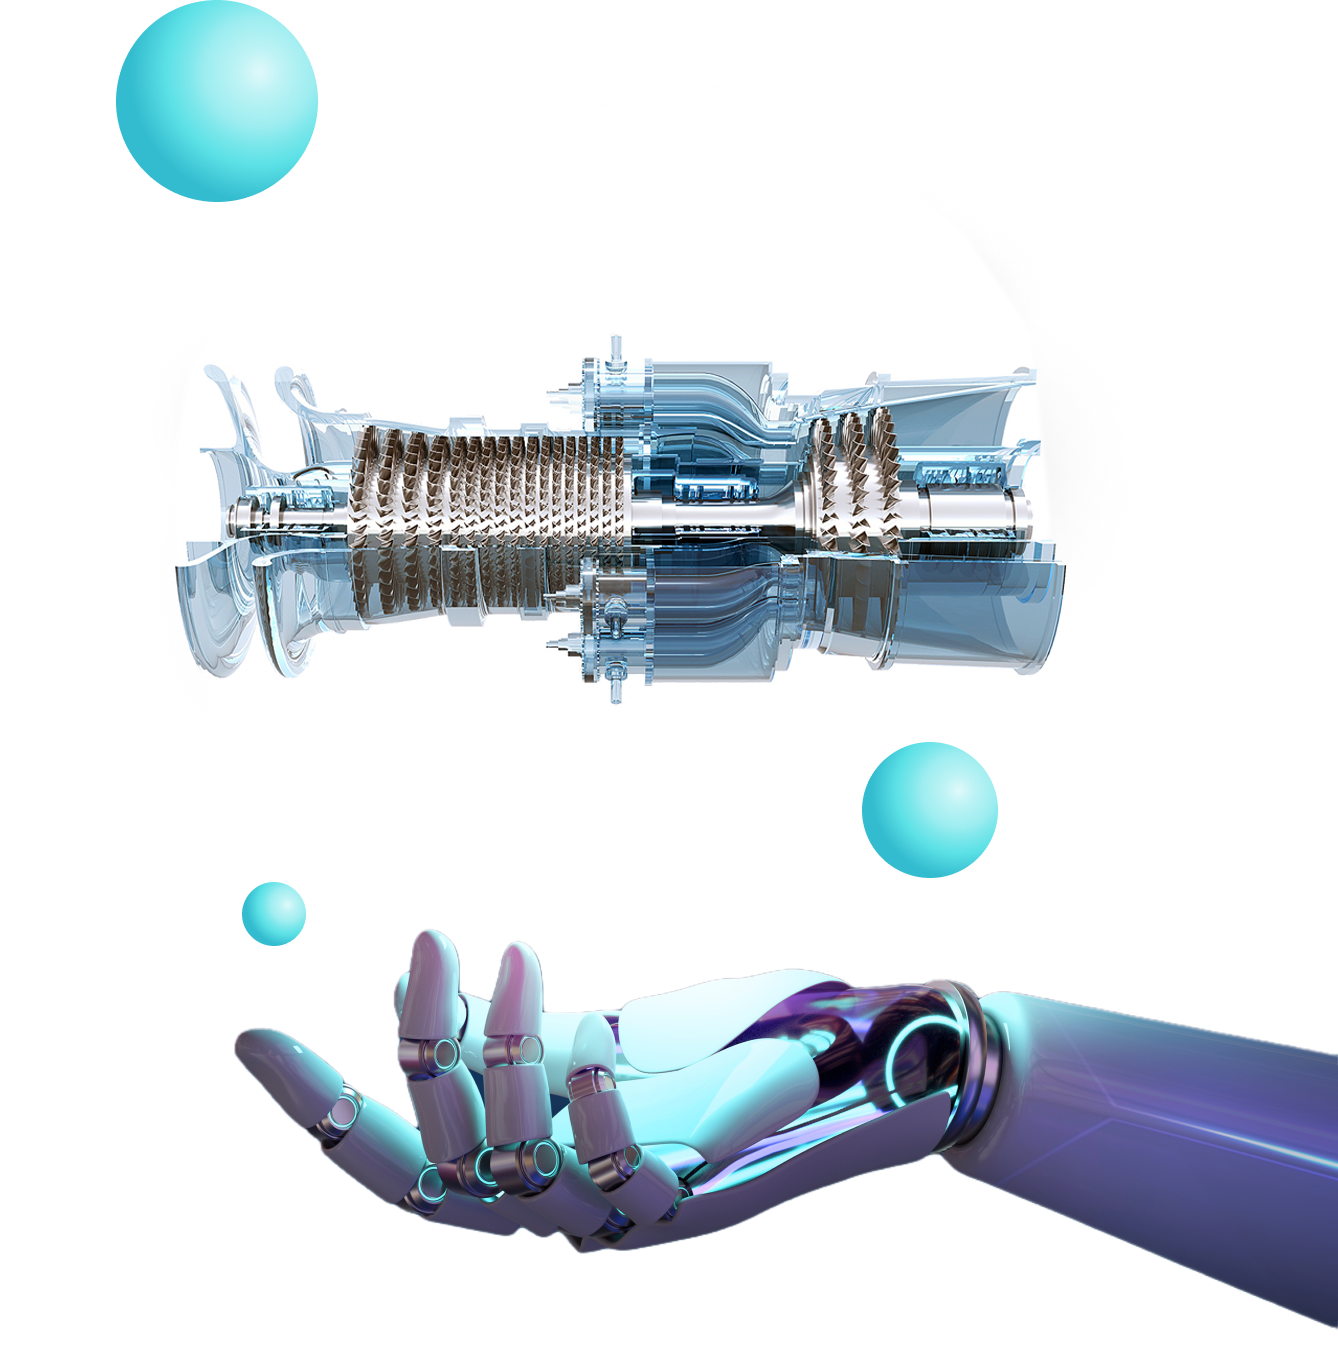
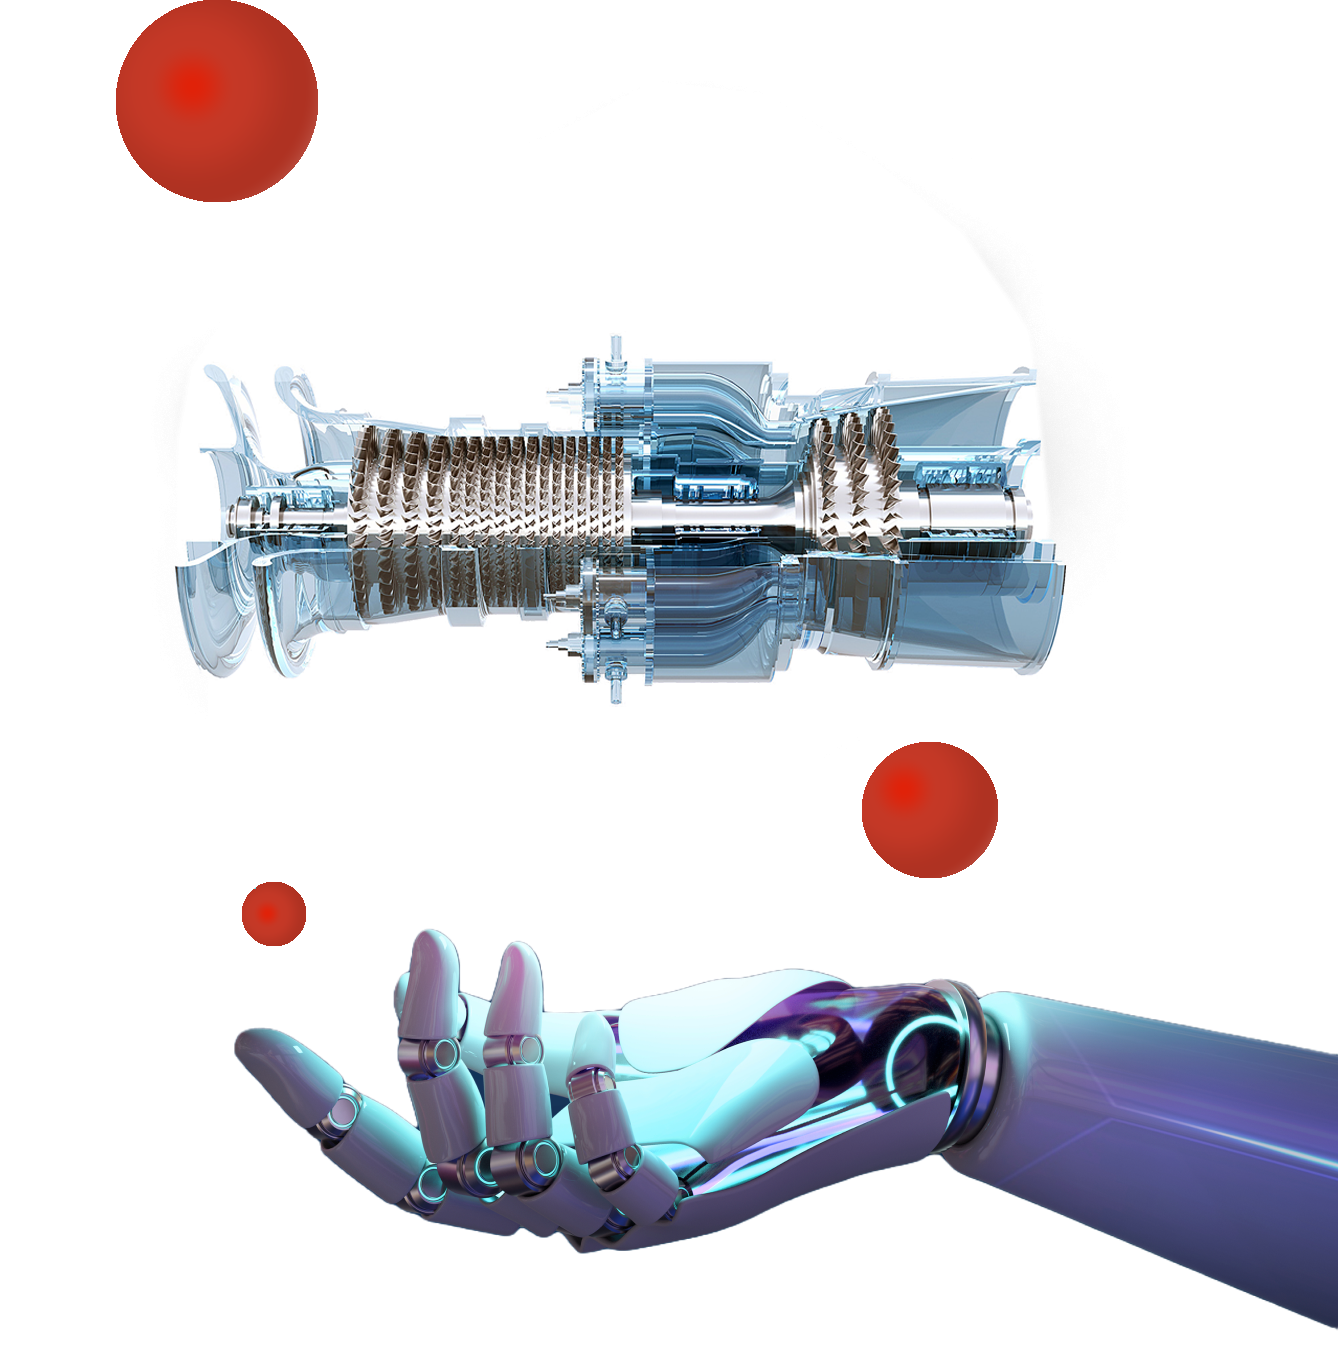
next change

Changed region(s): [[0.0613, 0.0, 0.2451, 0.1558], [0.6435, 0.5297, 0.7661, 0.6543], [0.1839, 0.6543, 0.2451, 0.7166]]

diff --git a/src/components/Testimonials.jsx b/src/components/Testimonials.jsx
@@ -1,6 +1,18 @@
-import { feedback } from "../constants";
+// import { feedback } from "../constants";
 import styles from '../style';
-import FeedbackCard from "./FeedbackCard";
+// import FeedbackCard from "./FeedbackCard";
+import file1 from "../Image/steam1.jpg";
+import file2 from "../Image/steam2.jpg";
+import file3 from "../Image/steam3.jpg";
+import file4 from "../Image/steam4.jpg";
+import file5 from "../Image/steam5.jpg";
+import file6 from "../Image/steam6.jpg";
+
+
+
+
+
+
 
 
 const Testimonials = () => (
@@ -22,10 +34,43 @@ const Testimonials = () => (
       </div>
   </div>
 
-  <div className="flex  xl:flex-nowrap flex-wrap  sm:justify-start 
+  {/* <div className="flex  xl:flex-nowrap flex-wrap  sm:justify-start 
   justify-center items-center w-full feedback-container relative z-[1]">
       {feedback.map((card) => <FeedbackCard key={card.id} {...card} />)}
+    </div> */}
+
+
+   
+
+
+    <div className="flex  xl:flex-nowrap flex-wrap  sm:justify-start 
+  justify-center items-center w-full feedback-container relative z-[1]">
+    <div className='p-1'>
+     <img src = {file1} alt="sunflex" />
     </div>
+    <div className='p-1'>
+     <img src = {file2} alt="sunflex" />
+    </div>
+    <div className='p-1'>
+     <img src = {file3} alt="sunflex" />
+    </div>
+    </div>
+
+    <div className="flex  xl:flex-nowrap flex-wrap  sm:justify-start 
+  justify-center items-center w-full feedback-container relative z-[1]">
+    <div className='p-1'>
+     <img src = {file4} alt="sunflex" />
+    </div>
+    <div className='p-1'>
+     <img src = {file5} alt="sunflex" />
+    </div>
+    <div className='p-1'>
+     <img src = {file6} alt="sunflex" />
+    </div>
+    </div>
+
+    
+    
   </section>
 )
 

diff --git a/src/components/Business.jsx b/src/components/Business.jsx
@@ -2,6 +2,7 @@ import { features} from '../constants';
 import styles, {layout} from '../style';
 import Button from './Button';
 
+
 const FeatureCard = ({icon, title, content, index }) => (
 <div className={`flex flex-row p-6 rounded-[20px] ${index !== features.length -1 ? "mb-6":"mb-0"} feature-card`}>
   <div className={`w-[64px] h-[64px] rounded-full ${styles.flexCenter} bg-dimBlue`}>
@@ -25,13 +26,14 @@ const Business = () => {
       <section id="about" className={layout.section}>
         <div className={layout.sectionInfo}>
           <h2 className={styles.heading2}> You do the bussiness, <br className='sm:block hidden'/>
-          we'll handle the talent </h2>
+          We'll handle the talent </h2>
           <p className={`${styles.paragraph} max-w-[470px] mt-5`}>
           Sunflex is committed to supporting and partnering in sustainable energy initiatives. Our role in the transition to cleaner energy solutions is pivotal, and we work closely with organizations that promote sustainability in the power generation industry.
 
           </p>
-
-          <Button styles="mt-10"/>
+          
+          <a className="mt-10" href="https://forms.zoho.in/sunflexglobal/form/SunflexGlobalEnergyCandidateEvaluation"><Button>Send Your CV</Button></a> 
+          
         </div>
 
         <div className={`${layout.sectionImg}

diff --git a/src/components/GetStarted.jsx b/src/components/GetStarted.jsx
@@ -4,20 +4,20 @@ import {arrowUp} from '../assets';
 const GetStarted = () => (
   
   <div className={`${styles.flexCenter} w-[140px] h-[140px]
-  rounded-full bg-blue-gradient p-[2px] cursor-pointer`}>
+  rounded-full bg-red-gradient p-[2px] cursor-pointer`}>
     <div className={`${styles.flexCenter} flex-col bg-primary
     w-[100%] h-[100%] rounded-full`}>
       <div className={`${styles.flexStart}
       flex-row`}>
         <p className='font-poppins font-medium text-[18px] leading-[23px] mr-2'>
-          <span className="text-gradient">Get</span>
+          <span className="text-gradient"><a href="https://sunflex.website">Get</a></span>
         </p>
         <a href="https://sunflex.website"> <img src={arrowUp} className='w-[23px] h-[23px] object-contain'/></a>
       </div>
 
      
          <p className='font-poppins font-medium text-[18px] leading-[23px]'>
-          <span className="text-gradient">Started</span>    
+         <a href="https://sunflex.website"> <span className="text-gradient">Started</span> </a>  
         </p>
         
 
@@ -28,4 +28,4 @@ const GetStarted = () => (
   
 )
 
-export default GetStarted
+export default GetStarted;

diff --git a/src/components/PostJob.jsx b/src/components/PostJob.jsx
@@ -3,16 +3,17 @@ import styles from '../style';
 import Button from './Button';
 
 
-const Job = () => 
+const PostJob = () => 
  (
-  <section id="job" className={`${styles.flexCenter} ${styles.marginY}
+  <section id="post" className={`${styles.flexCenter} ${styles.marginY}
   ${styles.padding} sm:flex-row flex-col bg-black-gradient-2 rounded-[20px] box-shadow`}>
     <div className='flex-1 flex flex-col'>
       <h2 className={styles.heading2}>
-     Find your next job
+      Looking to hire?
+
       </h2>
       <p className={`${styles.paragraph} max-w-[470px] mt-5`}>
-      Discover the perfect job opportunity for you. we create a seamless and engaging journey for potential candidates.
+      Post your job listing now and find the perfect candidate. 
       </p>
     </div>
 
@@ -20,7 +21,7 @@ const Job = () =>
       sm:mt-0 mt-10`}>
 
     
-      <a href="https://sunflex.website"><Button>Job search</Button></a> 
+      <a href="https://forms.zoho.in/sunflexglobal/form/Postjob"><Button>Post Job</Button></a> 
   
    </div>
 
@@ -28,4 +29,4 @@ const Job = () =>
   )
 
 
-export default Job;
+export default PostJob;

diff --git a/src/components/Footer.jsx b/src/components/Footer.jsx
@@ -14,6 +14,8 @@ const Footer = () =>  (
              />
           <p className={`${styles.paragraph} mt-4 max-w-[310px]`}>
           Our mission is to lead the transition to sustainable energy. 
+          Email us your Resume to : jeyalakshmi@sunflexglobal.com
+          call : +91 9790390252 
           </p>
           </div>
 
@@ -24,7 +26,7 @@ const Footer = () =>  (
               min-w-[150px]'>
                 <h4 className="font-poppins font-medium text-[18px]
                 leading-[27px] text-white">
-                  {footerLink.title}
+                  {/* {footerLink.title} */}
                 </h4>
                 <ul>
                   {footerLink.links.map((link, index) => (
@@ -50,7 +52,7 @@ const Footer = () =>  (
       border-t-[1px] border-t-[#3F3E45]">
          <p className="font-poppins font-normal text-center text-[18px]
                 leading-[27px] text-white">
-          2024 sunflex.All Rights Reserved
+          2024 sunflex.All Rights Reserved 
          </p>
 
          <div className="flex flex-row md:mt-0 mt-6">

diff --git a/src/index.css b/src/index.css
@@ -23,12 +23,19 @@
 .text-gradient {
   background: radial-gradient(
     64.18% 64.18% at 71.16% 35.69%,
-    #def9fa 0.89%,
+    #e11e05  0.89%,
+    #da341f 17.23%,
+    #e11e05 42.04%,
+    #da341f 55.12%,
+    #d2210b 71.54%,
+    #e11e05 100%
+    /* 
+     #def9fa  0.89%,
     #bef3f5 17.23%,
     #9dedf0 42.04%,
     #7de7eb 55.12%,
     #5ce1e6 71.54%,
-    #33bbcf 100%
+    #33bbcf 100% */
   );
   -webkit-background-clip: text;
   -webkit-text-fill-color: transparent;
@@ -36,15 +43,22 @@
   text-fill-color: transparent;
 }
 
-.bg-blue-gradient {
+.bg-red-gradient {
   background: linear-gradient(
     157.81deg,
-    #def9fa -43.27%,
+    #e11e05 -43.27%,
+    #da341f -21.24%,
+    #e11e05 12.19%,
+    #da341f 29.82%,
+    #d2210b 51.94%,
+    #e11e05 90.29%
+
+    /* #def9fa -43.27%,
     #bef3f5 -21.24%,
     #9dedf0 12.19%,
     #7de7eb 29.82%,
     #5ce1e6 51.94%,
-    #33bbcf 90.29%
+    #33bbcf 90.29% */
   );
 }
 

diff --git a/src/constants/index.js b/src/constants/index.js
@@ -1,4 +1,4 @@
-import { people01, people02, people03, facebook, instagram, linkedin, twitter, green, siemens, mitsubishi, send, shield, star,} from "../assets";
+import { people01, people02, people03, facebook, instagram, linkedin, twitter, green, siemens, mitsubishi, send, shield, star, } from "../assets";
 
 export const navLinks = [
   {
@@ -11,11 +11,15 @@ export const navLinks = [
   },
   {
     id:"services",
-    title:"Our Services",
+    title:"Post CV",
   },
   {
     id: "job",
-    title: "Jobs search",
+    title: "Job Search",
+  },
+  {
+    id: "post",
+    title: "Post Job",
   },
   {
     id: "client",
@@ -231,3 +235,4 @@ export const clients = [
   },
   
 ];
+

diff --git a/src/components/Clients.jsx b/src/components/Clients.jsx
@@ -3,7 +3,10 @@ import styles from "../style";
 
 const Clients = () => 
   (
-    <section className={`${styles.flexCenter} my-4`}>
+    
+    <section >
+      <h1 className='font-poppins font-semibold text-white text-[24px] leading-[23px] mb-1 text-center'> Your in good company </h1>
+      <div className={`${styles.flexCenter} my-4`}>
        <div className={`${styles.flexCenter} flex-wrap w-full`}>
         {clients.map((client) => (
           <div key={client.id} className={`flex-1 ${styles.flexCenter} sm:min-w-[192px] min-w-[120px]`}>
@@ -13,6 +16,7 @@ const Clients = () =>
           </div>
         ))}
 
+       </div>
        </div>
     </section>
   )

diff --git a/src/App.jsx b/src/App.jsx
@@ -1,6 +1,6 @@
 import styles from './style';
 import { Navbar, Hero, Stats,Business,CardDeal,
-         Testimonials,Clients,Job,CTA,Footer, 
+         Testimonials,Clients,Job,CTA,PostJob,Footer, 
          } from './components';
               
 
@@ -35,6 +35,7 @@ const App = () => {
         {/* <Billing/> */}
         <Job/> 
         <CTA/>
+        <PostJob/>
         <CardDeal/>
         <Testimonials/>
         <Clients/>

diff --git a/src/components/CardDeal.jsx b/src/components/CardDeal.jsx
@@ -1,6 +1,6 @@
 import { card } from '../assets';
 import styles, { layout } from '../style';
-import Button from './Button';
+
 
 const CardDeal = () => (
   <section id="project" className={layout.section}>
@@ -15,7 +15,7 @@ const CardDeal = () => (
       accommodation, and work permits for contractors.
       </p>
       
-      <Button styles="mt-10"/>
+      
     </div>
 
     <div className={layout.sectionImg}>

diff --git a/src/components/Button.jsx b/src/components/Button.jsx
@@ -7,8 +7,8 @@ const Button = ({ children, styles }) =>  {
   
   return ( 
     <div>
-    <button type="button" className={`py-4 px-6 bg-blue-gradient 
-    font-poppins font-medium text-[18px] text-primary 
+    <button type="button" className={`py-4 px-6 bg-red-gradient 
+    font-poppins font-medium text-[18px] text-[#fff]
     outline-none ${styles} rounded-[10px]`}>
     {children}
     </button>

diff --git a/src/components/index.js b/src/components/index.js
@@ -9,7 +9,7 @@ import Footer from "./Footer";
 import Testimonials from "./Testimonials";
 import Hero from "./Hero";
 import Job from "./Job";
-import Resume from "./Resume";
+import PostJob from "./PostJob";
 
 
 export {
@@ -24,6 +24,6 @@ export {
   Footer,
   Testimonials,
   Hero,
-  Resume,
+  PostJob,
   
 };
